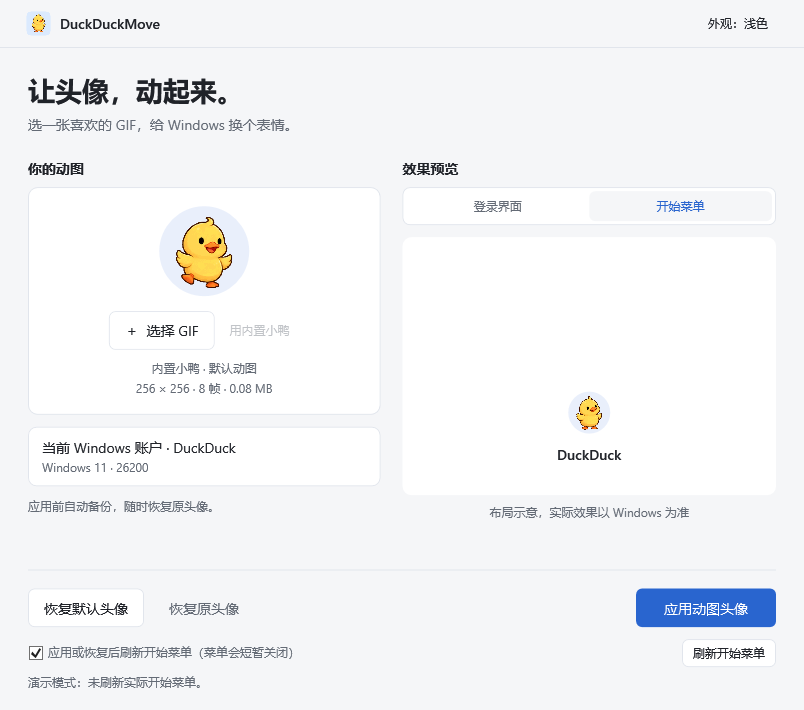
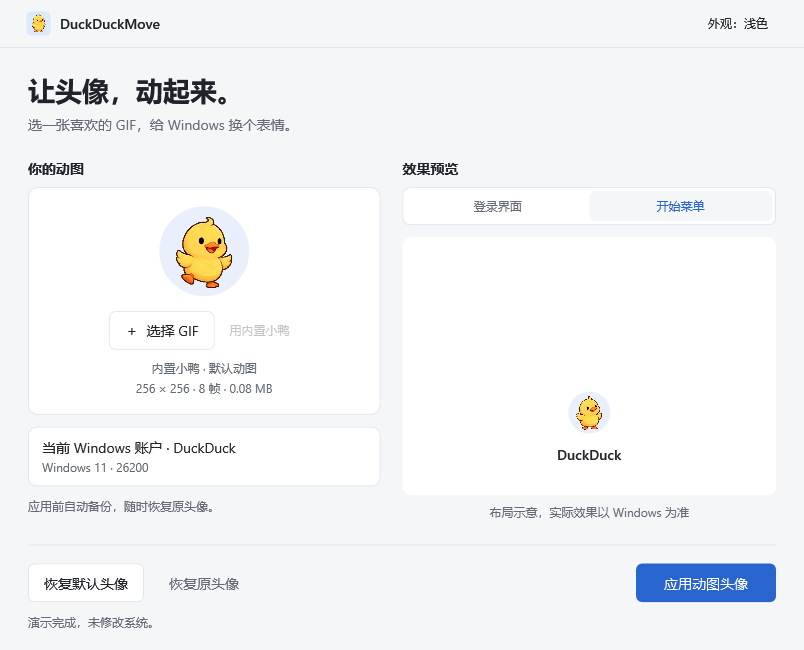
Keep Start menu refresh automatic and simplify the UI

diff --git a/src/DuckDuckMove.App/MainWindow.xaml b/src/DuckDuckMove.App/MainWindow.xaml
@@ -1,4 +1,4 @@
-<Window x:Class="DuckDuckMove.App.MainWindow" xmlns="http://schemas.microsoft.com/winfx/2006/xaml/presentation" xmlns:x="http://schemas.microsoft.com/winfx/2006/xaml" Title="DuckDuckMove" Icon="Assets/app-icon.png" Width="820" Height="750" MinWidth="700" MinHeight="720" WindowStartupLocation="CenterScreen" Background="{DynamicResource Page}" Foreground="{DynamicResource Ink}" FontFamily="Segoe UI, Microsoft YaHei" FontSize="14">
+<Window x:Class="DuckDuckMove.App.MainWindow" xmlns="http://schemas.microsoft.com/winfx/2006/xaml/presentation" xmlns:x="http://schemas.microsoft.com/winfx/2006/xaml" Title="DuckDuckMove" Icon="Assets/app-icon.png" Width="820" Height="690" MinWidth="700" MinHeight="640" WindowStartupLocation="CenterScreen" Background="{DynamicResource Page}" Foreground="{DynamicResource Ink}" FontFamily="Segoe UI, Microsoft YaHei" FontSize="14">
  <Window.Resources>
   <SolidColorBrush x:Key="Page" Color="#F5F6F8"/><SolidColorBrush x:Key="Panel" Color="White"/><SolidColorBrush x:Key="Ink" Color="#202329"/><SolidColorBrush x:Key="Muted" Color="#646B76"/><SolidColorBrush x:Key="Line" Color="#E1E5EC"/><SolidColorBrush x:Key="Accent" Color="#2965CF"/><SolidColorBrush x:Key="OnAccent" Color="White"/><SolidColorBrush x:Key="Scene" Color="#DCE5F4"/><SolidColorBrush x:Key="AvatarBg" Color="#E9EFFB"/>
   <Style TargetType="Button"><Setter Property="Background" Value="{DynamicResource Panel}"/><Setter Property="Foreground" Value="{DynamicResource Ink}"/><Setter Property="BorderBrush" Value="{DynamicResource Line}"/><Setter Property="BorderThickness" Value="1"/><Setter Property="Padding" Value="15,9"/><Setter Property="Cursor" Value="Hand"/><Setter Property="MinHeight" Value="36"/><Setter Property="Template"><Setter.Value><ControlTemplate TargetType="Button"><Border x:Name="Frame" Background="{TemplateBinding Background}" BorderBrush="{TemplateBinding BorderBrush}" BorderThickness="{TemplateBinding BorderThickness}" CornerRadius="6" Padding="{TemplateBinding Padding}"><ContentPresenter HorizontalAlignment="Center" VerticalAlignment="Center"/></Border><ControlTemplate.Triggers><Trigger Property="IsMouseOver" Value="True"><Setter TargetName="Frame" Property="Opacity" Value="0.82"/></Trigger><Trigger Property="IsPressed" Value="True"><Setter TargetName="Frame" Property="Opacity" Value="0.65"/></Trigger><Trigger Property="IsEnabled" Value="False"><Setter TargetName="Frame" Property="Opacity" Value="0.4"/></Trigger></ControlTemplate.Triggers></ControlTemplate></Setter.Value></Setter></Style>
@@ -39,7 +39,7 @@
     </StackPanel>
    </Grid>
    <Border Grid.Row="2" BorderBrush="{DynamicResource Line}" BorderThickness="0,1,0,0" Padding="0,18,0,0"><Grid><Grid.ColumnDefinitions><ColumnDefinition Width="Auto"/><ColumnDefinition Width="Auto"/><ColumnDefinition Width="*"/><ColumnDefinition Width="Auto"/></Grid.ColumnDefinitions><Button x:Name="DefaultButton" Content="恢复默认头像" Click="ResetDefault" ToolTip="换回 Windows 默认的人形头像，保留原头像备份。"/><Button x:Name="RestoreButton" Grid.Column="1" Content="恢复原头像" Margin="10,0,0,0" Background="Transparent" BorderThickness="0" Foreground="{DynamicResource Muted}" Click="RestoreOriginal" ToolTip="恢复首次使用 DuckDuckMove 更改前的头像。"/><Button x:Name="ApplyButton" Grid.Column="3" Content="应用动图头像" Background="{DynamicResource Accent}" Foreground="{DynamicResource OnAccent}" BorderThickness="0" MinWidth="140" Click="ApplyGif"/></Grid></Border>
-   <StackPanel Grid.Row="3" Margin="0,12,0,0"><DockPanel Margin="0,0,0,7"><Button x:Name="RefreshStartButton" Content="刷新开始菜单" DockPanel.Dock="Right" FontSize="12" Padding="10,4" MinHeight="28" Click="RefreshStart"/><CheckBox x:Name="AutoRefreshStart" Content="应用或恢复后刷新开始菜单（菜单会短暂关闭）" IsChecked="True" VerticalAlignment="Center" Foreground="{DynamicResource Muted}" FontSize="12"/></DockPanel><TextBlock x:Name="StatusLabel" Text="应用或恢复时，需要确认 Windows 管理员授权。" Style="{StaticResource SecondaryText}" AutomationProperties.LiveSetting="Polite"/><Button x:Name="RecoverButton" Content="恢复上次未完成的操作" Visibility="Collapsed" HorizontalAlignment="Left" Margin="0,8,0,0" Click="Recover"/></StackPanel>
+   <StackPanel Grid.Row="3" Margin="0,12,0,0"><TextBlock x:Name="StatusLabel" Text="应用或恢复时，需要确认 Windows 管理员授权。" Style="{StaticResource SecondaryText}" AutomationProperties.LiveSetting="Polite"/><Button x:Name="RecoverButton" Content="恢复上次未完成的操作" Visibility="Collapsed" HorizontalAlignment="Left" Margin="0,8,0,0" Click="Recover"/></StackPanel>
   </Grid>
  </Grid>
 </Window>

diff --git a/src/DuckDuckMove.App/Program.cs b/src/DuckDuckMove.App/Program.cs
@@ -28,7 +28,7 @@ internal static class Program
             var visual = (System.Windows.Controls.Grid)window.Content;
             window.Content = null;
             visual.Resources = window.Resources;
-            using var host = new System.Windows.Interop.HwndSource(new System.Windows.Interop.HwndSourceParameters("DuckDuckMove hidden UI verification") { Width = 804, Height = 710, WindowStyle = unchecked((int)0x80000000) });
+            using var host = new System.Windows.Interop.HwndSource(new System.Windows.Interop.HwndSourceParameters("DuckDuckMove hidden UI verification") { Width = 804, Height = 650, WindowStyle = unchecked((int)0x80000000) });
             host.RootVisual = visual;
             Pump(250);
             if (args.Length >= 2)
@@ -47,19 +47,16 @@ internal static class Program
                 if (window.BuiltInButton.IsEnabled) window.BuiltInButton.RaiseEvent(new RoutedEventArgs(System.Windows.Controls.Button.ClickEvent));
                 Pump(250);
                 bool returnToBuiltIn = window.ApplyButton.IsEnabled && !window.BuiltInButton.IsEnabled && window.FileLabel.Text == "内置小鸭 · 默认动图";
-                window.RefreshStartButton.RaiseEvent(new RoutedEventArgs(System.Windows.Controls.Button.ClickEvent));
-                Pump(100);
-                bool refreshDemo = window.StatusLabel.Text.Contains("未刷新实际开始菜单") && window.RefreshStartButton.IsEnabled && window.AutoRefreshStart.IsChecked == true;
-                File.WriteAllText(Path.Combine(args[1], "ui-checks.json"), System.Text.Json.JsonSerializer.Serialize(new { StartupDefault = startupDefault, GifPlayback = gifPlayback, ApplyEnabled = applyEnabled, DefaultPreview = defaultPreview, ApplyPreview = applyPreview, ReturnToBuiltIn = returnToBuiltIn, RefreshDemo = refreshDemo }));
-                if (!startupDefault || !gifPlayback || !applyEnabled || !defaultPreview || !applyPreview || !returnToBuiltIn || !refreshDemo) return 5;
+                File.WriteAllText(Path.Combine(args[1], "ui-checks.json"), System.Text.Json.JsonSerializer.Serialize(new { StartupDefault = startupDefault, GifPlayback = gifPlayback, ApplyEnabled = applyEnabled, DefaultPreview = defaultPreview, ApplyPreview = applyPreview, ReturnToBuiltIn = returnToBuiltIn }));
+                if (!startupDefault || !gifPlayback || !applyEnabled || !defaultPreview || !applyPreview || !returnToBuiltIn) return 5;
             }
             foreach (var (name, theme, start) in new[] { ("light-login", 1, false), ("dark-login", 2, false), ("light-start", 1, true) })
             {
                 window.ApplyTheme(theme); window.SetScene(start);
                 visual.Background = (Brush)window.Resources["Page"];
-                visual.Measure(new Size(804, 710)); visual.Arrange(new Rect(0, 0, 804, 710)); visual.UpdateLayout();
+                visual.Measure(new Size(804, 650)); visual.Arrange(new Rect(0, 0, 804, 650)); visual.UpdateLayout();
                 Pump(250);
-                var bitmap = new RenderTargetBitmap(804, 710, 96, 96, PixelFormats.Pbgra32); bitmap.Render(visual);
+                var bitmap = new RenderTargetBitmap(804, 650, 96, 96, PixelFormats.Pbgra32); bitmap.Render(visual);
                 var png = new PngBitmapEncoder(); png.Frames.Add(BitmapFrame.Create(bitmap));
                 using var output = File.Create(Path.Combine(args[1], name + ".png")); png.Save(output);
             }

diff --git a/src/DuckDuckMove.App/MainWindow.xaml.cs b/src/DuckDuckMove.App/MainWindow.xaml.cs
@@ -105,23 +105,13 @@ public partial class MainWindow : Window
         RestoreButton.IsEnabled = available && (demo || File.Exists(Storage.At("Accounts", sid, "original.json")));
         RecoverButton.Visibility = !demo && File.Exists(Storage.At("Accounts", sid, "pending.json")) ? Visibility.Visible : Visibility.Collapsed;
         RecoverButton.IsEnabled = !busy;
-        RefreshStartButton.IsEnabled = available;
-        AutoRefreshStart.IsEnabled = available;
+
+
     }
     private async void ApplyGif(object sender, RoutedEventArgs e) => await Perform("apply");
     private async void ResetDefault(object sender, RoutedEventArgs e) => await Perform("default");
     private async void RestoreOriginal(object sender, RoutedEventArgs e) => await Perform("restore");
     private async void Recover(object sender, RoutedEventArgs e) => await Perform("recover");
-    private async void RefreshStart(object sender, RoutedEventArgs e)
-    {
-        if (busy) return;
-        busy = true; RefreshActions();
-        try
-        {
-            StatusLabel.Text = demo ? "演示模式：未刷新实际开始菜单。" : await StartMenuRefresh.RunAsync();
-        }
-        finally { busy = false; RefreshActions(); }
-    }
     private async Task Perform(string action)
     {
         if (busy || action == "apply" && selectedPath == null) return;
@@ -149,8 +139,7 @@ public partial class MainWindow : Window
             StatusLabel.Text = result.Message;
             if (result.Success)
             {
-                if (AutoRefreshStart.IsChecked == true)
-                    StatusLabel.Text = result.Message + " " + await StartMenuRefresh.RunAsync();
+                StatusLabel.Text = result.Message + " " + await StartMenuRefresh.RunAsync();
                 if (action == "apply" && selectedPath != null) { AnimationBehavior.SetSourceUri(PreviewImage, new Uri(selectedPath)); PreviewPlaceholder.Visibility = Visibility.Collapsed; }
                 else
                 {

diff --git a/src/DuckDuckMove.App/StartMenuRefresh.cs b/src/DuckDuckMove.App/StartMenuRefresh.cs
@@ -31,13 +31,13 @@ internal static class StartMenuRefresh
                 }
             }
             return stopped > 0
-                ? "已请求重新加载开始菜单，请按 Win 键查看底部头像。Microsoft 账户卡片不在支持范围内。"
-                : "未找到可刷新的开始菜单进程，请打开开始菜单后重试。";
+                ? "已刷新开始菜单。"
+                : "下次打开开始菜单时查看头像。";
         }
         catch (Exception ex)
         {
             // A refresh failure must never be reported as an avatar write failure.
-            return "开始菜单刷新未完成（" + ex.Message + "）。头像配置未撤销，可稍后手动重试。";
+            return "开始菜单刷新未完成（" + ex.Message + "）。头像已保存，可注销后查看。";
         }
     }
 }

diff --git a/docs/START-MENU.md b/docs/START-MENU.md
@@ -8,11 +8,11 @@ v0.1.1 只写入本机 AccountPicture 注册表值，不请求开始菜单重新
 
 ## v0.1.2 的处理
 
-界面默认勾选“应用或恢复后刷新开始菜单”，也提供独立的“刷新开始菜单”按钮。只有头像操作成功才执行自动刷新。刷新失败单独报告，不撤销已经成功写入的头像。
+应用或恢复头像后自动刷新，不增加勾选框或手动刷新按钮。只有头像操作成功才执行自动刷新。刷新失败单独报告，不撤销已经成功写入的头像。
 
 刷新由普通权限的交互进程执行：只结束当前会话中、可执行文件路径与 Windows SystemApps 下的标准 StartMenuExperienceHost 路径完全匹配的进程，不结束进程树。由 Windows 在需要时重新激活开始菜单；请按 Win 键查看。不会重启 Explorer、注销用户、修改注册表权限或清理账户缓存。若系统阻止访问则显示错误，不提升权限重试。
 
-开始菜单会短暂关闭；取消勾选即可禁用自动刷新。进程结束不等于已确认头像视觉刷新成功，具体效果仍需实机反馈。
+开始菜单会短暂关闭。进程结束不等于已确认头像视觉刷新成功，具体效果仍需实机反馈。
 
 微软的支持资料确认开始菜单使用独立宿主，也在其他开始菜单故障场景中提供了结束宿主进程的办法；这些资料并不保证动图头像兼容性：
 
@@ -29,4 +29,4 @@ v0.1.1 只写入本机 AccountPicture 注册表值，不请求开始菜单重新
 
 ## 验证范围
 
-已提供演示模式交互测试，确认刷新按钮与默认选项正常，演示模式不会结束真实进程。实际底部头像是否无需重启即可刷新，需用户使用新版本验证；账户卡片暂不作为已修复功能。
+已提供演示模式交互测试，演示模式不会结束真实进程。实际底部头像是否无需重启即可刷新，需用户使用新版本验证；账户卡片暂不作为已修复功能。

diff --git a/README.md b/README.md
@@ -8,7 +8,7 @@
 
 ## 下载
 
-当前源码为 **v0.1.2 刷新改进测试版**，新增应用后刷新开始菜单与手动刷新按钮。公开 Release v0.1.1 不含此改进；v0.1.2 的底部头像即时刷新效果仍需实机验证，Microsoft 账户卡片暂不支持同步。详见 [刷新机制与验证范围](docs/START-MENU.md)。
+当前源码为 **v0.1.2 刷新改进测试版**，新增应用或恢复后的自动刷新。公开 Release v0.1.1 不含此改进；v0.1.2 的底部头像即时刷新效果仍需实机验证，Microsoft 账户卡片暂不支持同步。详见 [刷新机制与验证范围](docs/START-MENU.md)。
 
 前往 **[Release 下载页面](https://github.com/wooi/DuckDuckMove/releases)**，在版本下方的 **Assets** 中选择：
 
@@ -59,7 +59,7 @@
 
 应用或恢复时可能每次都需要 UAC 确认。软件不会自动注销、重启或锁定电脑。设置完成后可关闭程序，临时服务会退出并被移除。
 
-v0.1.2 默认勾选「应用或恢复后刷新开始菜单」。操作成功后会结束当前会话中的标准开始菜单宿主，让 Windows 重新加载；开始菜单会短暂关闭，请按 Win 键查看底部头像。可取消勾选，或使用「刷新开始菜单」单独重试。刷新失败不撤销已写入的头像，也不代表账户卡片会更新。
+v0.1.2 在应用或恢复成功后自动刷新开始菜单，无需额外操作。开始菜单会短暂关闭，再次打开即可查看底部头像。刷新失败不撤销已写入的头像，也不代表账户卡片会更新。
 
 ## 首版边界
 
